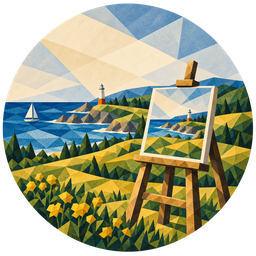
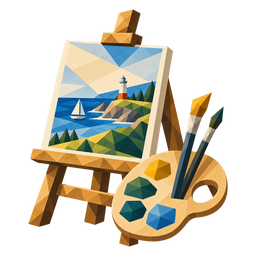
クエストのカテゴリアイコンとロゴを新デザインに差し替える
- 常設(spot)・スポーツ・アート・食のアイコンを透過の新イラストに差し替え（256px）
- ロゴを横長の新デザインに差し替え（1024x604）
- ロゴが横長になったので、ヘッダー・フッター・ヒーロー・パスワード再設定の表示サイズを新しい比率に合わせる

Claude-Session: https://claude.ai/code/session_01JkWNT7rQ7EWSu5pfXsceL6

diff --git a/src/features/dev-tools/constants/image-assets.ts b/src/features/dev-tools/constants/image-assets.ts
@@ -69,7 +69,7 @@ export const IMAGE_ASSETS: ImageAssetEntry[] = [
       "オンボーディングの1枚目",
       "花火の演出",
     ],
-    note: "浜通りクエストの円形エンブレム。背景は透過済み。ロゴ内に「浜通りクエスト」「歩いて、見つけて、集めよう！」の文字が入っているため、隣に同じ文字を置かないこと。ヘッダーの48pxでは文字が読めないので、小サイズ専用のマークは別途検討。",
+    note: "浜通りクエストの横長ロゴ（1024×604）。背景は透過済み。ロゴ内に「浜通りクエスト」の文字が入っている。ヘッダーの高さ40pxでは文字が読めないので、小サイズ専用のマークは別途検討。",
   },
   {
     path: "/img/logo_shiro.png",

diff --git a/src/components/top/hero.tsx b/src/components/top/hero.tsx
@@ -61,10 +61,10 @@ export default async function Hero({ returnUrl, message }: HeroProps = {}) {
             <Image
               src="/img/logo.png"
               alt="浜通りクエスト"
-              width={512}
-              height={512}
-              sizes="(min-width: 768px) 280px, 220px"
-              className="h-[220px] w-auto md:h-[280px]"
+              width={1024}
+              height={604}
+              sizes="(min-width: 768px) 440px, 320px"
+              className="w-[320px] h-auto md:w-[440px]"
               priority
             />
           </div>

diff --git a/src/app/(auth-pages)/forgot-password/page.tsx b/src/app/(auth-pages)/forgot-password/page.tsx
@@ -30,8 +30,8 @@ export default async function ForgotPassword(props: {
         <Image
           src="/img/logo.png"
           alt="浜通りクエスト"
-          width={96}
-          height={96}
+          width={160}
+          height={94}
         />
       </div>
       <h1 className="text-2xl font-medium">パスワードを忘れた方</h1>

diff --git a/src/components/common/navbar.tsx b/src/components/common/navbar.tsx
@@ -29,7 +29,7 @@ export default async function Navbar() {
             <Image
               src="/img/logo.png"
               alt="浜通りクエスト"
-              width={40}
+              width={68}
               height={40}
             />
             <div className="flex items-center gap-2 text-base font-bold sm:text-lg">

diff --git a/src/components/footer/footer.ts b/src/components/footer/footer.ts
@@ -9,5 +9,5 @@ export const FOOTER_BUTTON_STYLES = {
 
 export const FOOTER_IMAGE_SIZES = {
   socialIcon: { width: 48, height: 48 },
-  logo: { width: 96, height: 96 },
+  logo: { width: 160, height: 94 },
 } as const;
